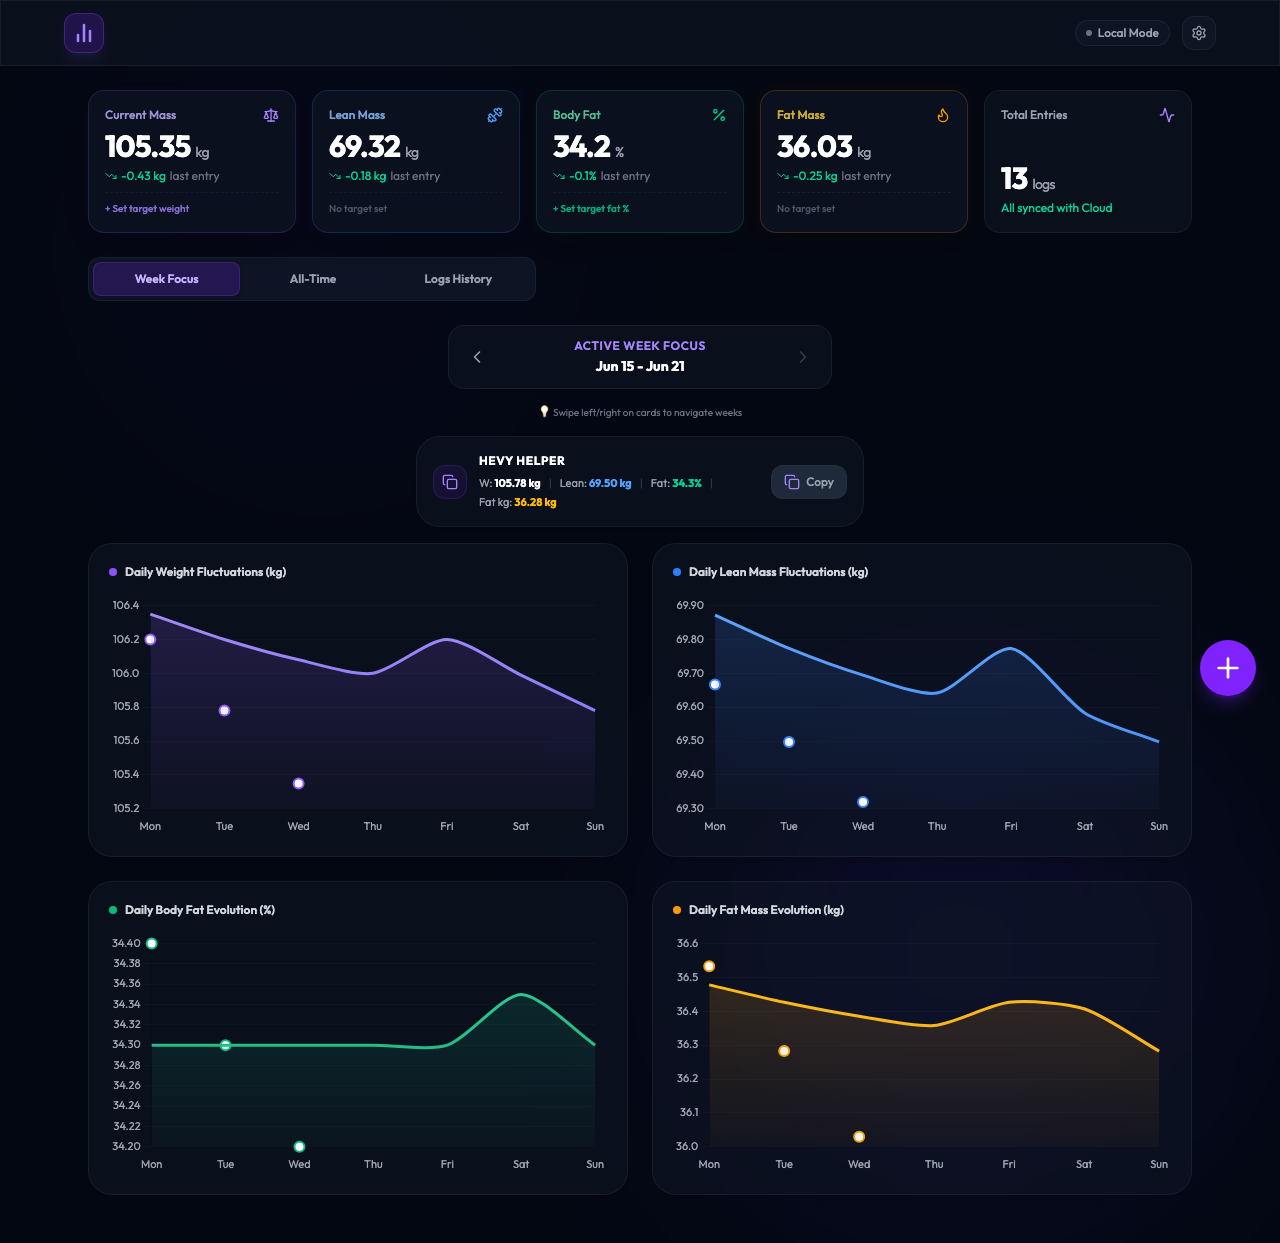
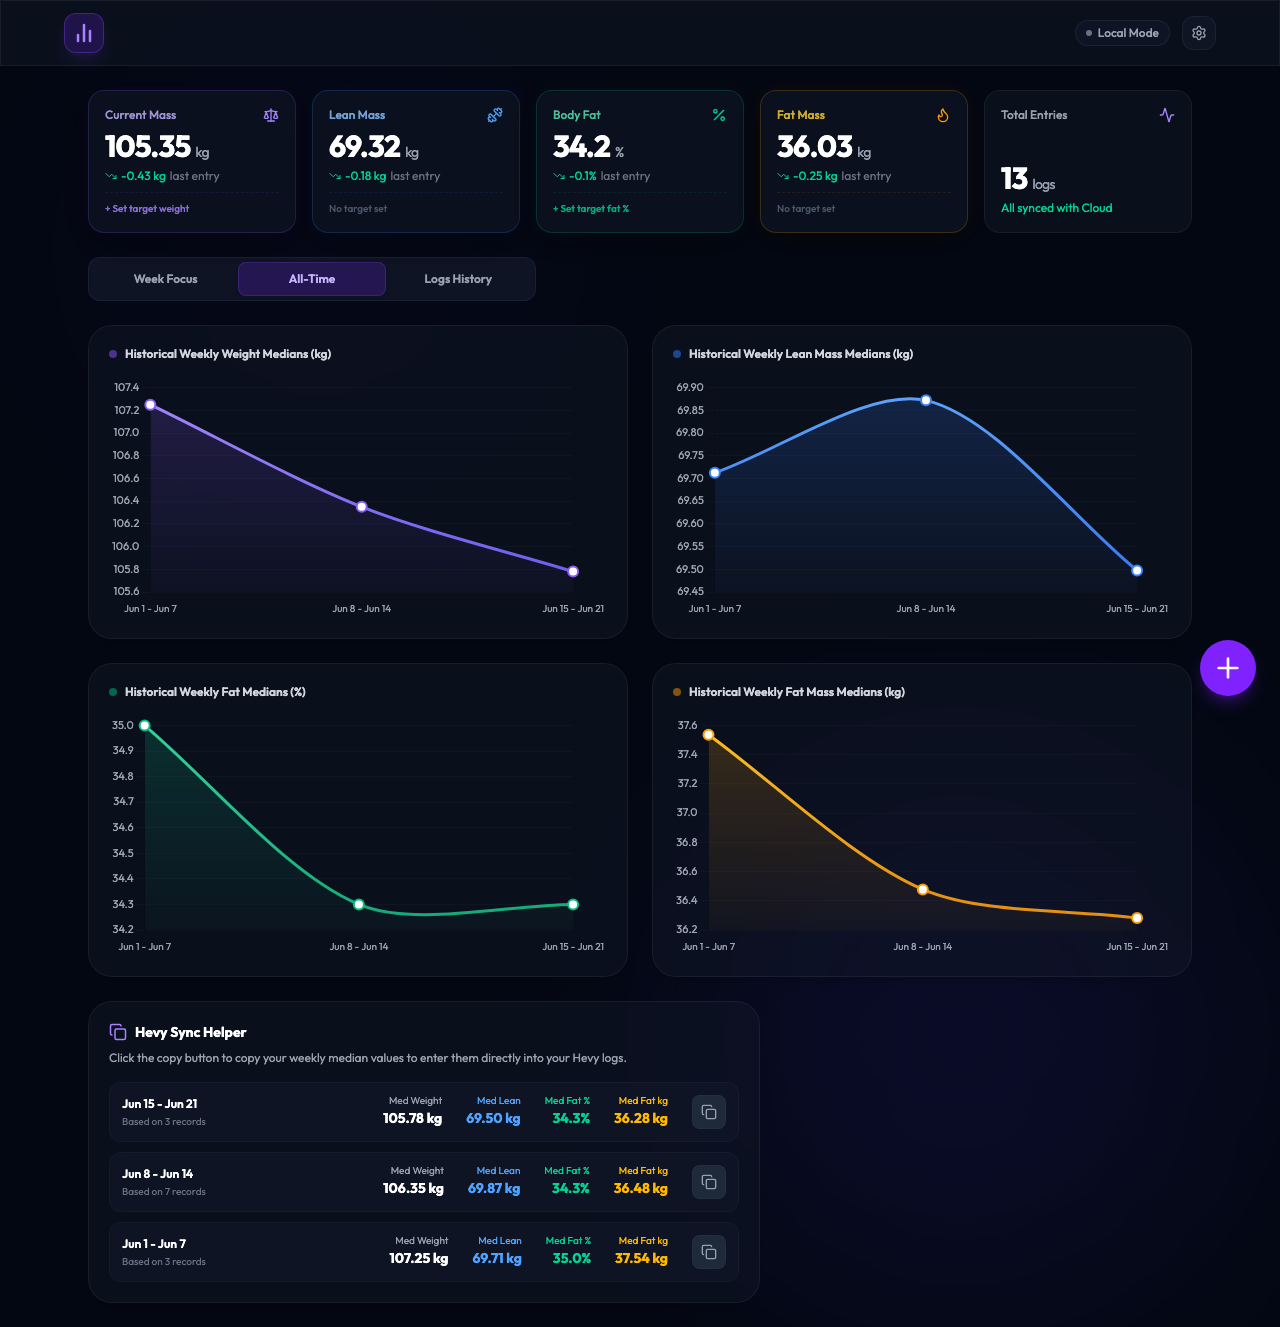
test: switch to All-Time tab before capturing visual screenshot

diff --git a/tests/charts.spec.js b/tests/charts.spec.js
@@ -71,6 +71,9 @@ test('Seed user data and take screenshot', async ({ page }) => {
   await expect(page.locator('text=34.2 %').first()).toBeVisible(); // Body Fat card
   await expect(page.locator('text=36.03 kg').first()).toBeVisible(); // Fat Mass card
 
+  // Click "All-Time" tab to display long-term weekly trends
+  await page.getByRole('button', { name: 'All-Time' }).click();
+
   // Let it render for 1 second
   await page.waitForTimeout(1000);
 
